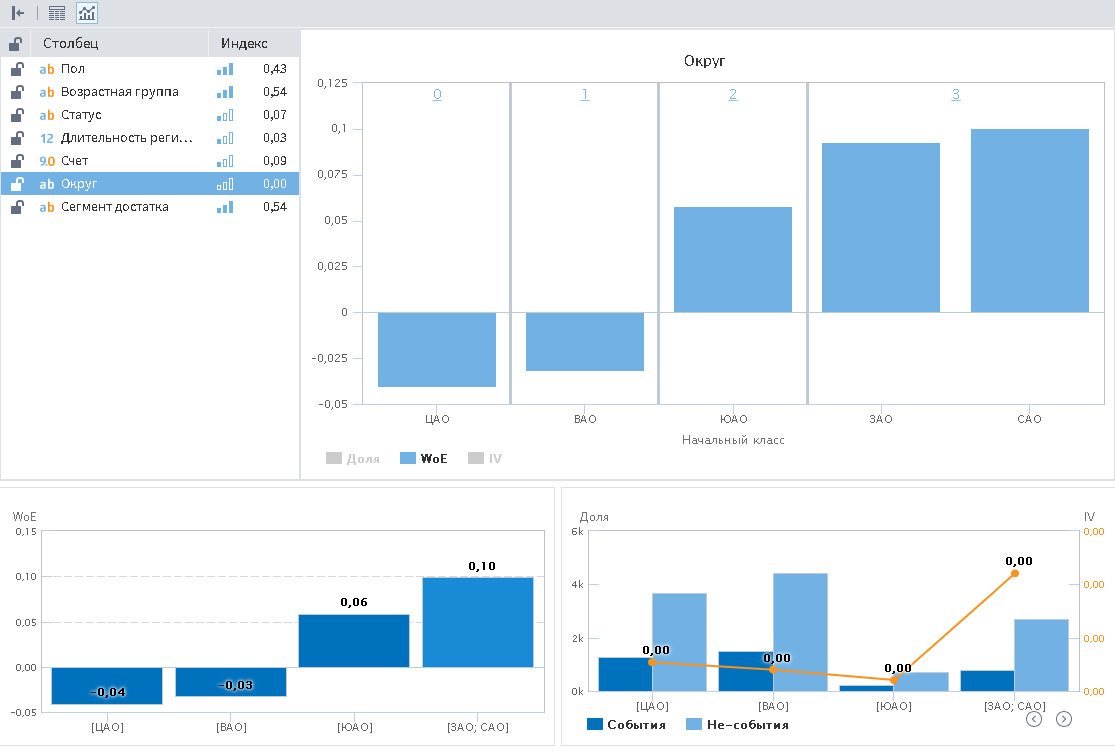
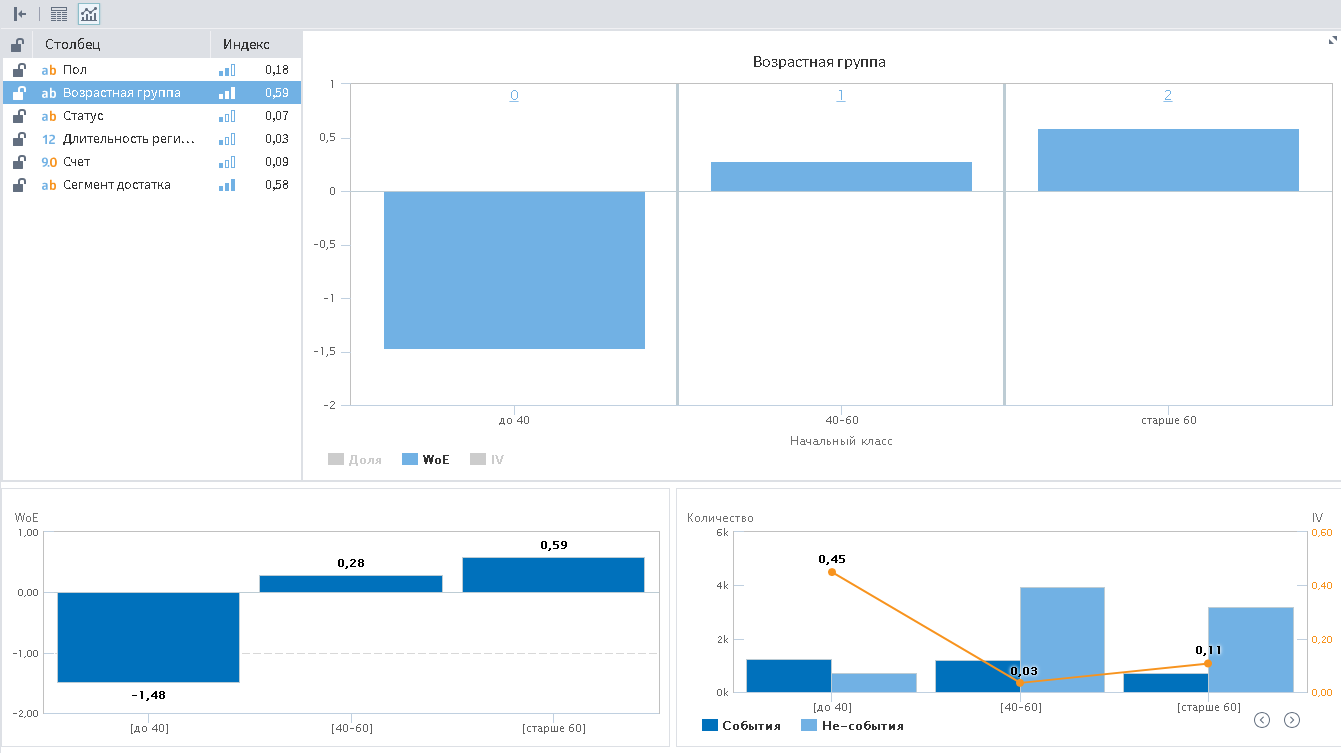
Корректировка статьи "Конечные классы", замена рисунков

diff --git a/visualization/fine-classes/README.md b/visualization/fine-classes/README.md
@@ -38,6 +38,10 @@
 
 Навигация по конечным классам осуществляется мышкой.
 
+### Доступ к визуализатору
+
+Доступом к визуализатору "Конечные классы" можно поделиться используя кнопку в правом верхнем углу ниже справки.
+
 ### Отображение классов
 
 #### Начальные классы
@@ -51,6 +55,8 @@
 * IV (информационный индекс).
 
 Выбор отображения переключается в нижней части диаграммы.
+
+Если навести левую кнопку мыши на диаграмму начальных классов, в правом верхнем углу данной диаграммы появится кнопка, нажав на которую диаграмма развернется во всю область визуализатора. Также над диаграммой появится выпадающий список, в котором можно выбрать входной столбец, который необходимо отобразить.
 
 #### Конечные классы
 
@@ -80,4 +86,4 @@
 
 ----
 
-**Примечание:** Диаграмму "Доля" можно сменить на диаграмму "Количество" нажав на стрелочки под ней.
+**Примечание:** Правую диаграмму конечных классов можно менять используя кнопки в нижнем углу.
